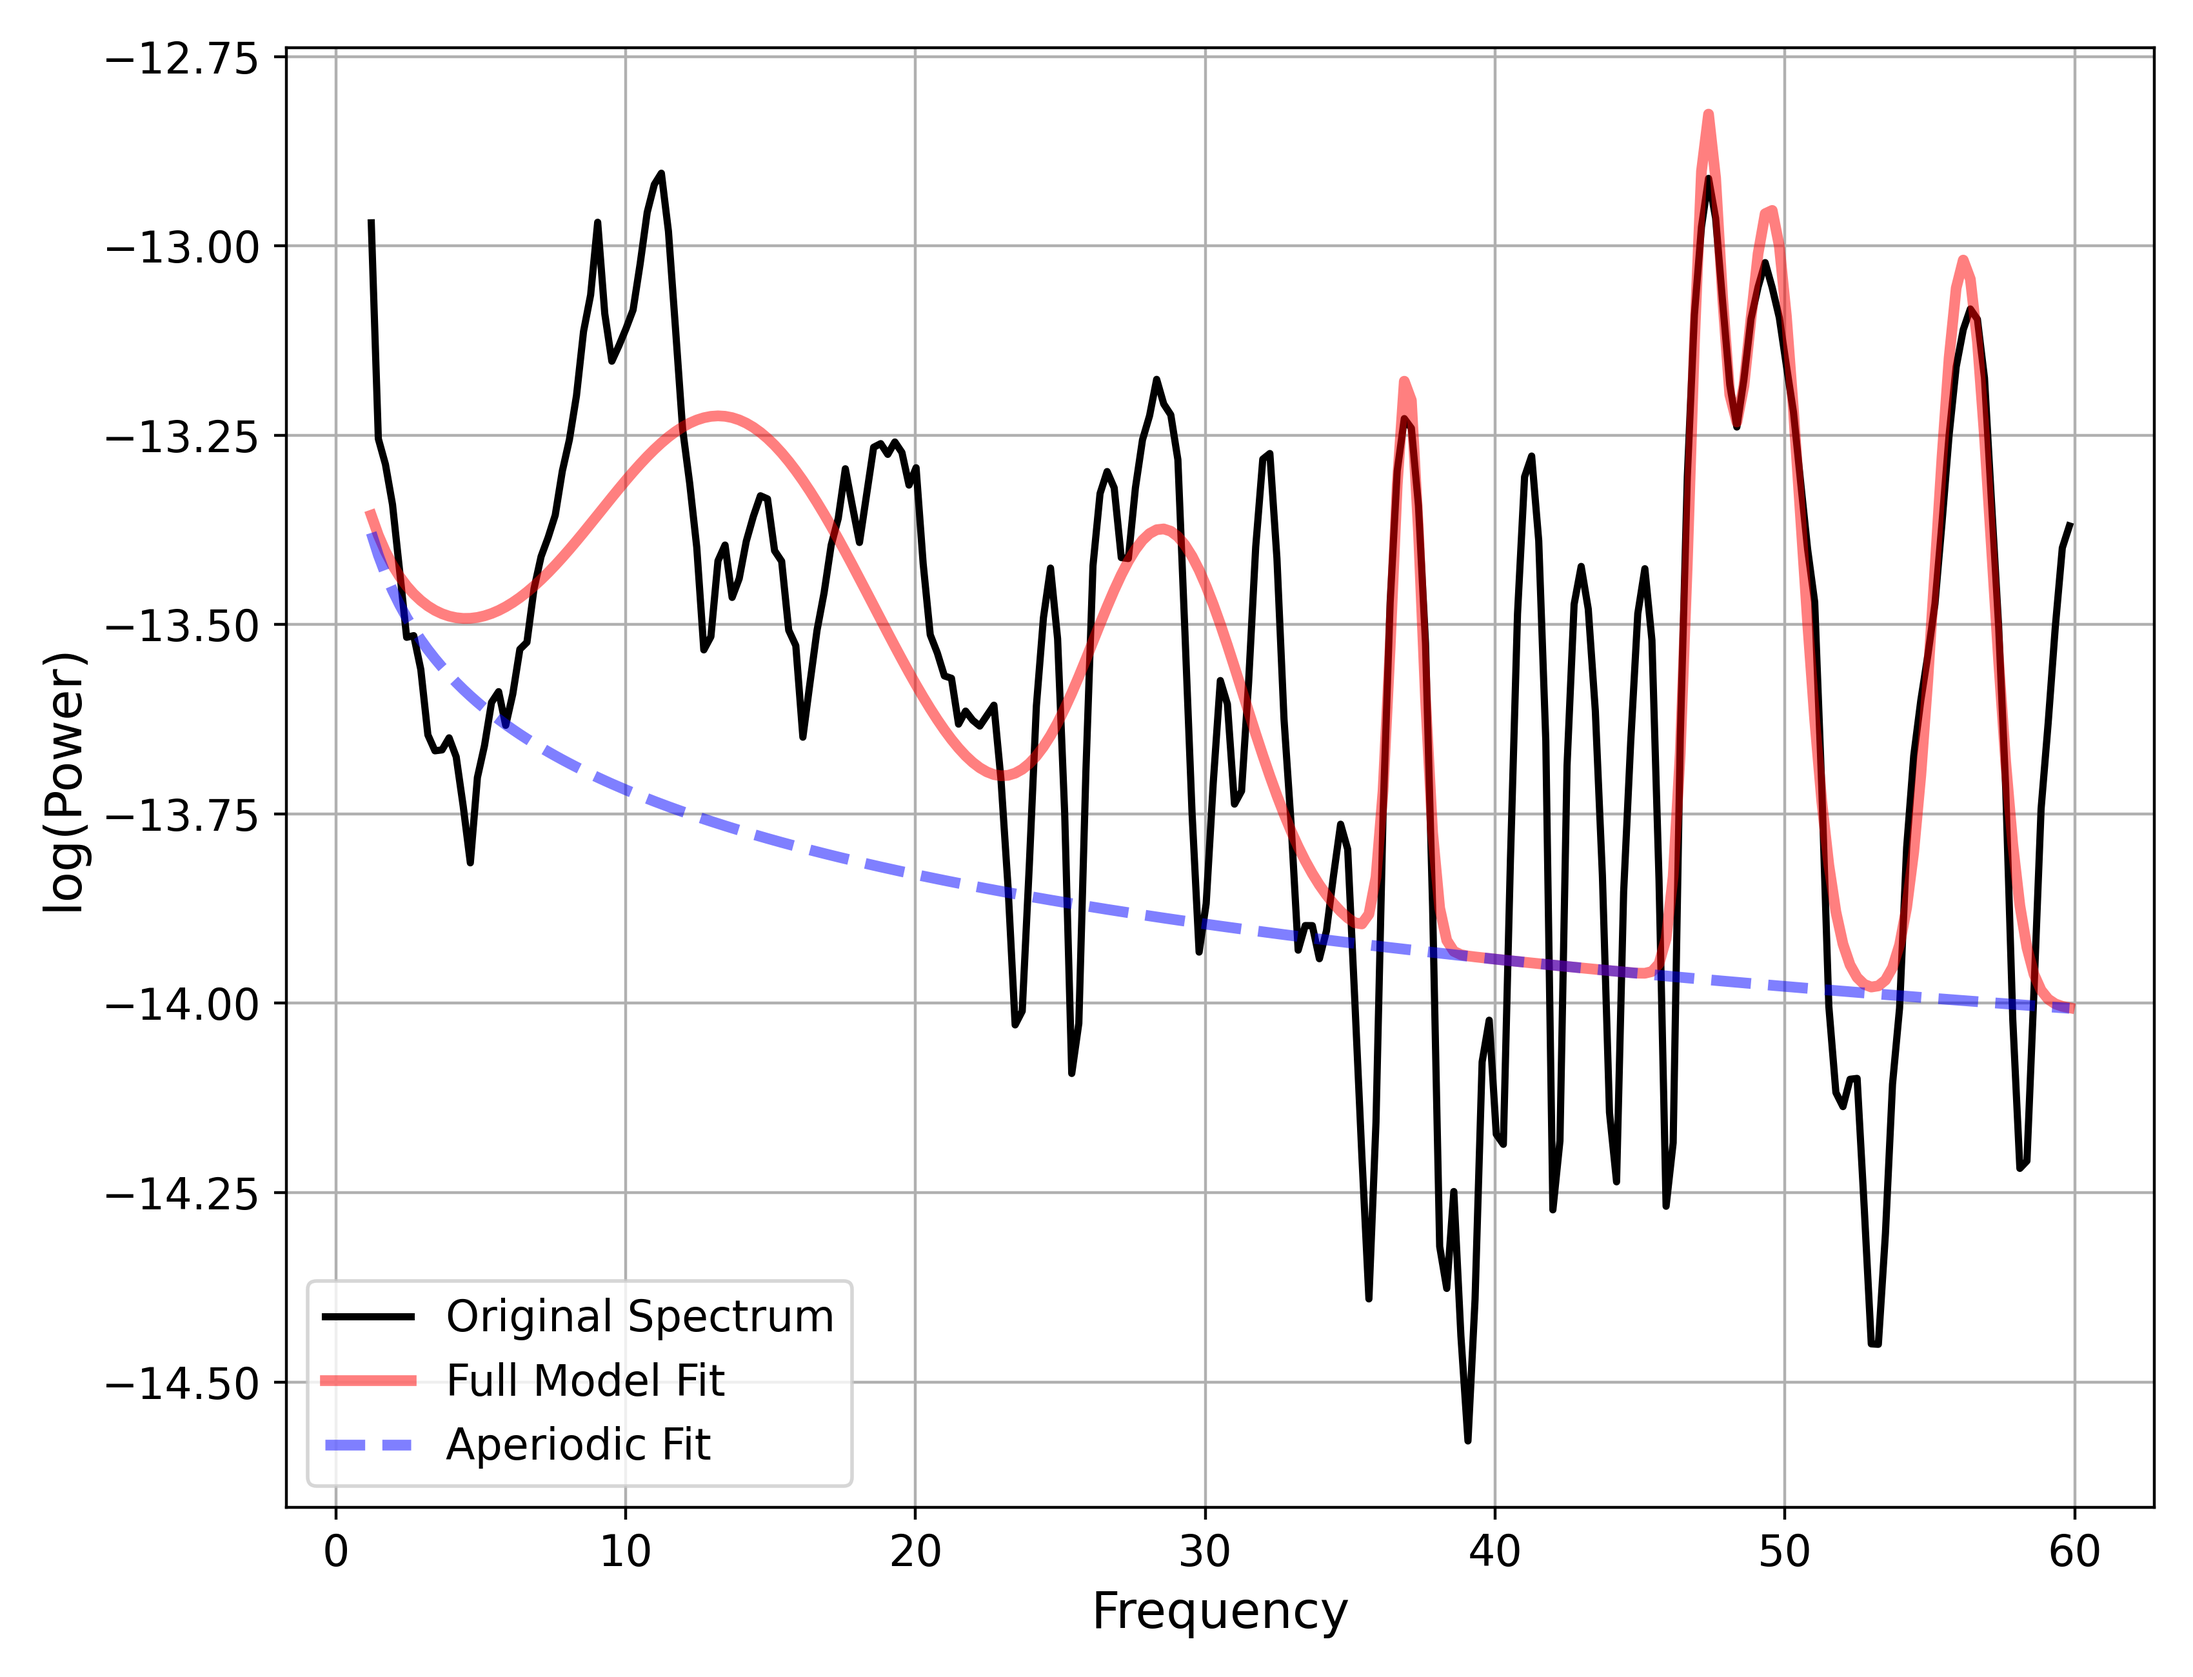
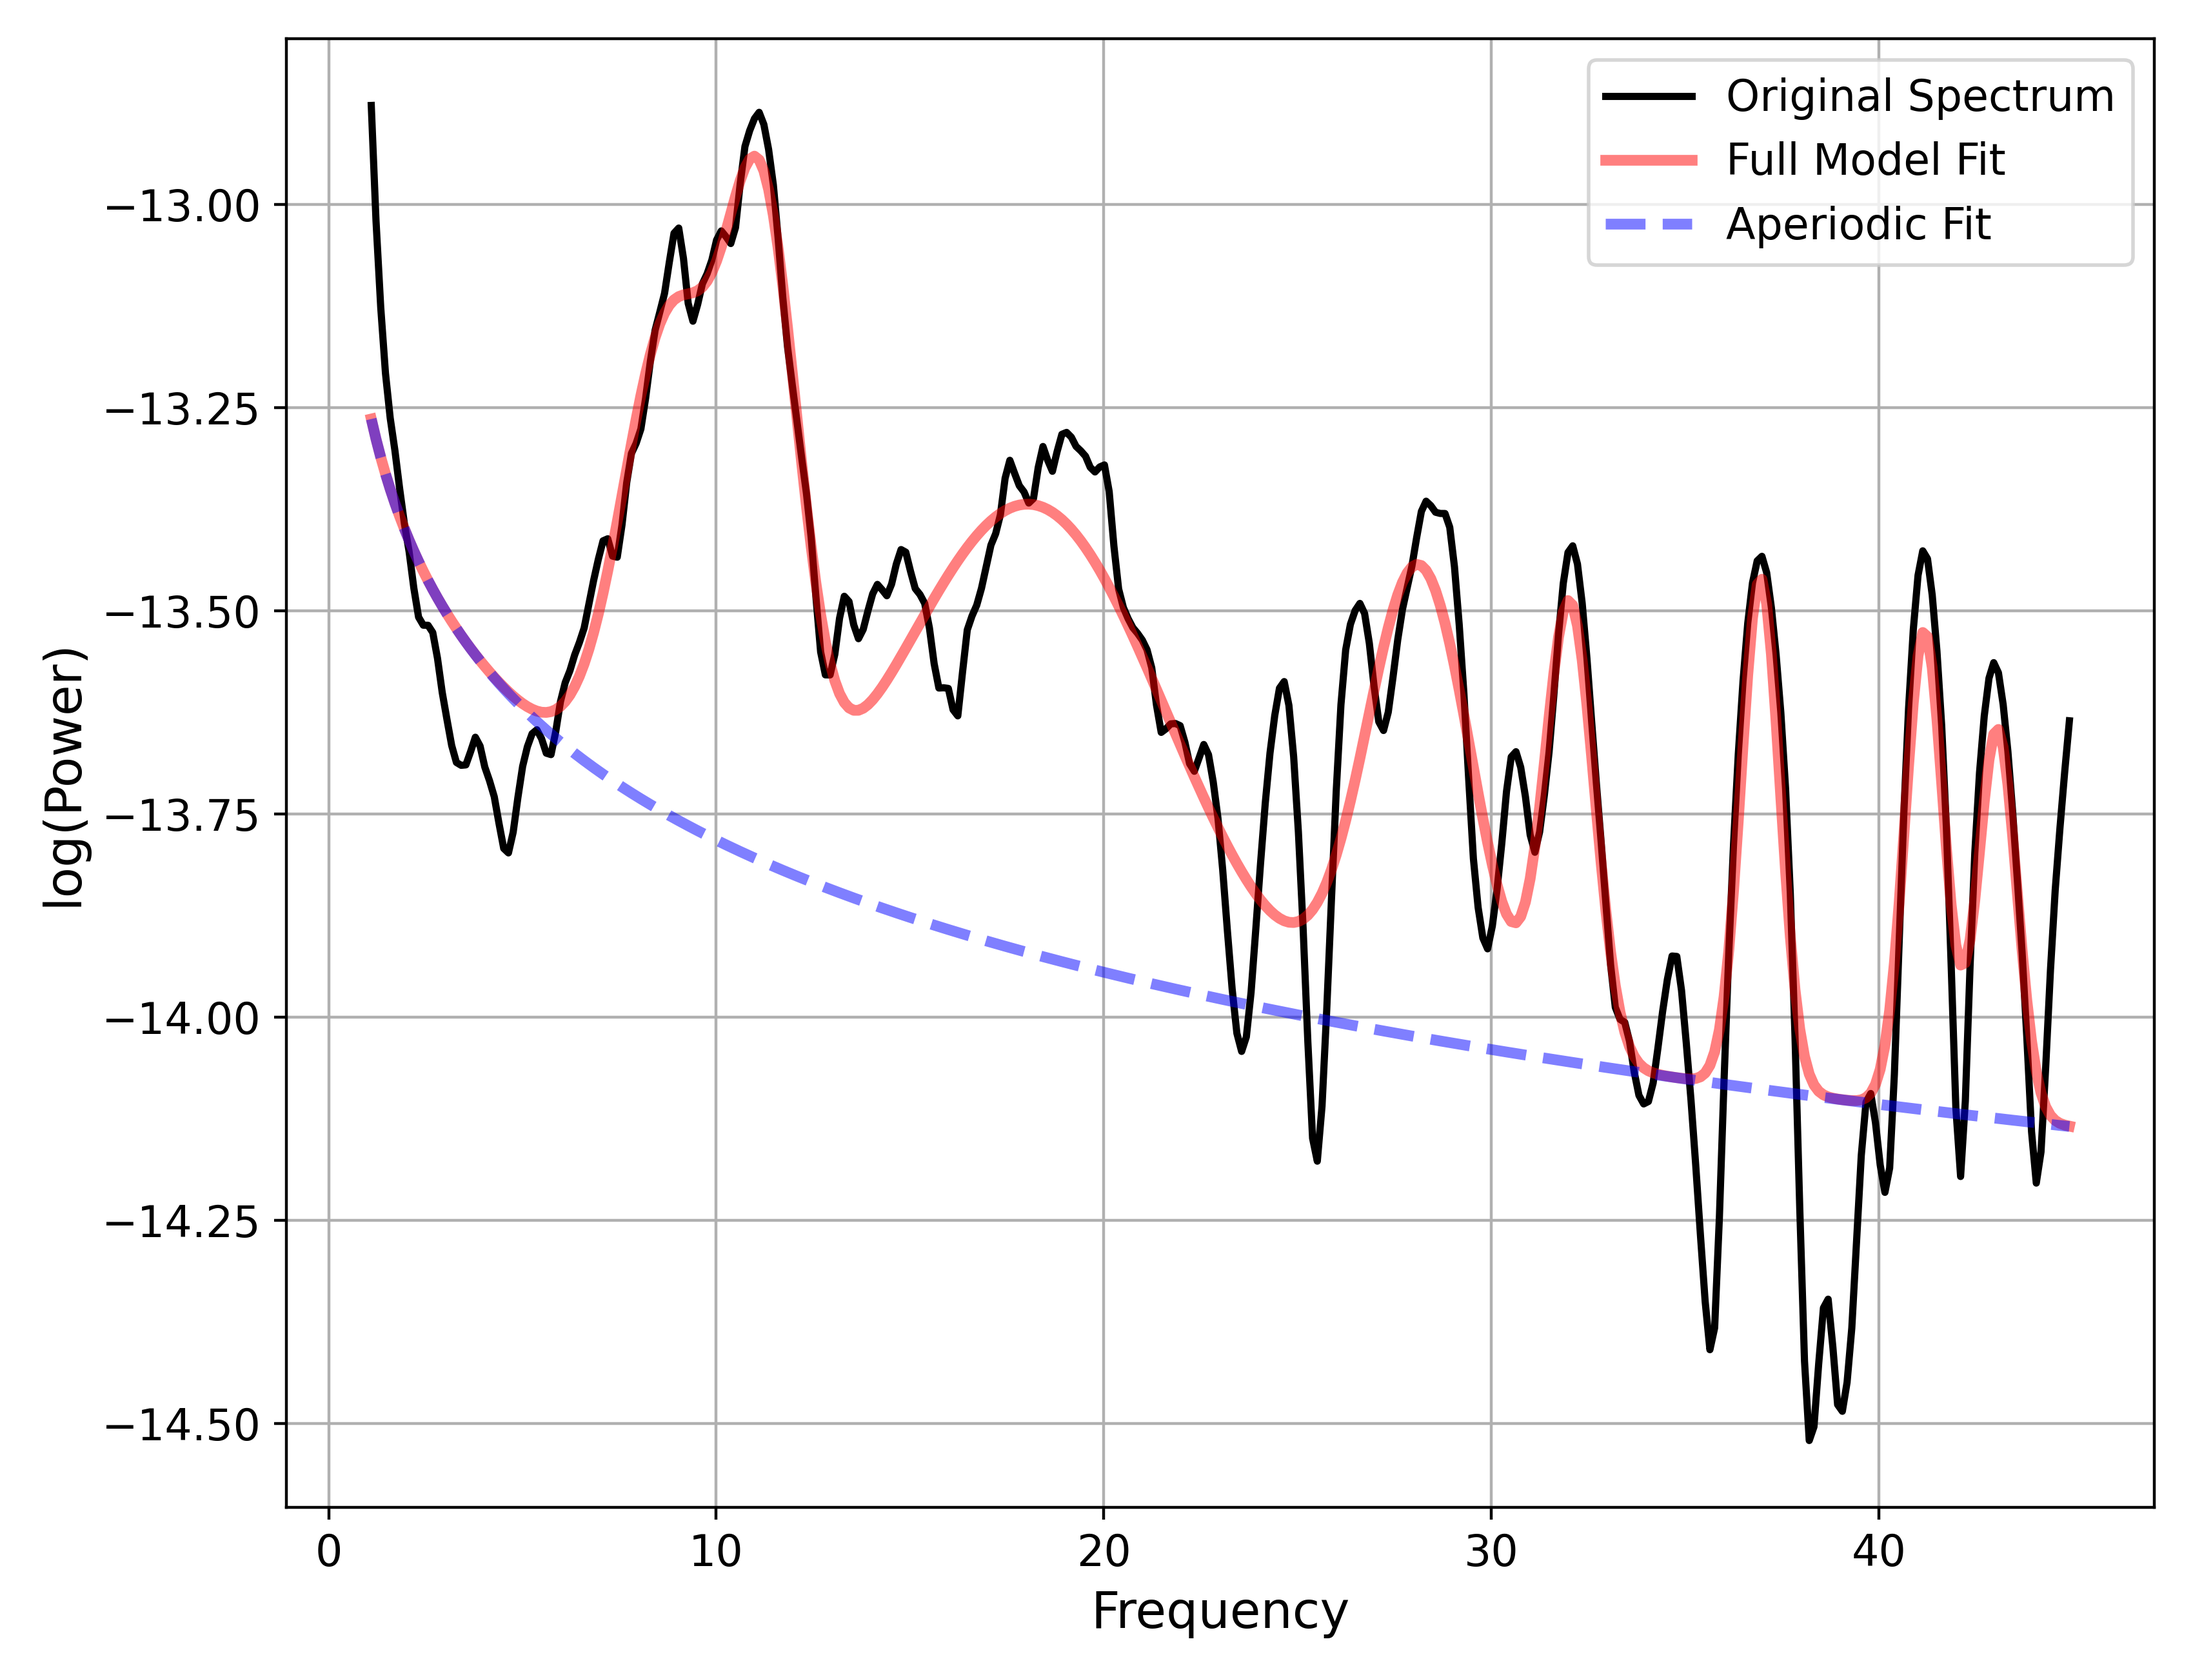
updated peak estimate with fallback to use highest value in range instead of spepcparam if no specparam peaks are found. SNR is not based on psd values instead of specparam peaks

diff --git a/code/01_get_filt_coeffs.py b/code/01_get_filt_coeffs.py
@@ -6,8 +6,10 @@ from json import dump, load
 from pathlib import Path
 
 import mne
+import numpy as np
 from scipy.io import savemat
 from scipy.signal import firwin
+
 from spectrum_analysis import parameterize_spectrum
 
 # change pwd to script directory to ensure relative paths work correctly
@@ -100,43 +102,47 @@ raw_c3_hjorth = mne.io.RawArray(c3_hjorth, info).filter(1, 60, fir_design="firwi
 
 raw_c3_hjorth.resample(pre_rs.info["sfreq"] / dec)
 
-spectrum = raw_c3_hjorth.compute_psd(fmin=1, fmax=60)
-
-# Julianas mod start
-# sfreq = raw_c3_hjorth.info["sfreq"]
-# n_fft = int(4 * sfreq)  # 4 s windows
-# n_overlap = n_fft // 2  # 50% overlap
-
-# spectrum = raw_c3_hjorth.compute_psd(
-#     method="welch",
-#     fmin=1,
-#     fmax=60,
-#     n_fft=n_fft,
-#     n_overlap=n_overlap,
-#     n_per_seg=n_fft,
-# )
-# Julianas mod end
+n_per_seg = int(4 * raw_c3_hjorth.info["sfreq"])  # 4 s windows
+n_fft = 4096
+spectrum = raw_c3_hjorth.compute_psd(
+    fmin=1, fmax=60, n_fft=n_fft, n_overlap=n_per_seg // 2, n_per_seg=n_per_seg
+)
 
 freqs = spectrum.freqs
 psd = spectrum.get_data()
+print(f"PSD shape: {psd.shape}")
 
 periodic_params, aperiodic_params = parameterize_spectrum(
-    [freqs, psd[0, :]], save_fig=repo_root / "figures" / f"{sub_id}_psd.png", fmax=120
+    [freqs, psd[0, :]],
+    save_fig=repo_root / "figures" / f"{sub_id}_psd.png",
+    freq_range=[1, 60],
 )
 
+# get snr peak
+lower_alpha, upper_alpha = 8, 13
+peak_snr = max(psd[0, (freqs >= lower_alpha) & (freqs <= upper_alpha)])
+peak_idx = np.where(psd[0, :] == peak_snr)[0][0]
+peak_power_log = np.log10(peak_snr)
+aperiodic_background_log = aperiodic_params[0] - aperiodic_params[1] * np.log10(
+    freqs[peak_idx]
+)
+peak_snr = 10 * (peak_power_log - aperiodic_background_log)
+print("\n"+100 * "-")
+print(f"Peak SNR: {peak_snr:.2f} dB at {freqs[peak_idx]:.2f} Hz")
+
 # compute peak bands with +/-1 fixed bandwidth
-band_peaks = [param for param in periodic_params if param[0] < 12 and param[0] > 8]
-peak = sorted(band_peaks, key=lambda x: x[1], reverse=True)[
-    0
-]  # get the peak with the highest power
-peak_f = peak[0]
+band_peaks = [
+    param
+    for param in periodic_params
+    if param[0] < upper_alpha and param[0] > lower_alpha
+]
+if len(band_peaks) > 0:
+    peak = max(band_peaks, key=lambda x: x[1])  # get the peak with the highest power
+    peak_f = peak[0]
+else:
+    print("No peaks found in the alpha band. Using the peak SNR frequency instead.")
+    peak_f = freqs[peak_idx]
 lower, upper = peak_f - 1, peak_f + 1
-
-# get snr
-peak_snr = 10 * peak[1]
-
-print(f"\nPeak frequency: {peak_f} Hz, SNR: {peak_snr:.2f} dB\n")
-
 
 # save snr
 with open(data_save / "sub_snr.csv", "a") as f:
@@ -156,16 +162,16 @@ numtaps = (
 print(
     f"Designing FIR filter with fs={fs}, numtaps={numtaps}, lower={lower}, upper={upper}"
 )
-
+print(100 * "-"+"\n")
 coefficients = firwin(numtaps, [lower, upper], fs=fs, pass_zero="bandpass")
 
 # save coefficients to .mat file
 savemat(str(coeffs_path), {"coefficients": coefficients})
 
-# run git push to sync with remote repository
-subprocess.run(["git", "add", "."], cwd=str(repo_root))
-subprocess.run(
-    ["git", "commit", "-m", f"Add FIR filter coefficients for {sub_id}"],
-    cwd=str(repo_root),
-)
-subprocess.run(["git", "push"], cwd=str(repo_root))
+# # run git push to sync with remote repository
+# subprocess.run(["git", "add", "."], cwd=str(repo_root))
+# subprocess.run(
+#     ["git", "commit", "-m", f"Add FIR filter coefficients for {sub_id}"],
+#     cwd=str(repo_root),
+# )
+# subprocess.run(["git", "push"], cwd=str(repo_root))

diff --git a/code/spectrum_analysis.py b/code/spectrum_analysis.py
@@ -1,10 +1,11 @@
-from specparam import SpectralModel, SpectralGroupModel
-from mne.io import Raw, RawArray
-from mne import Epochs, EpochsArray
-import numpy as np
 import matplotlib.pyplot as plt
+import numpy as np
+from mne import Epochs, EpochsArray
+from mne.io import Raw, RawArray
+from specparam import SpectralGroupModel, SpectralModel
 
-def parameterize_spectrum(data, fmin=1, fmax=120, max_peaks=6, peak_width_limits=[1, 10], min_peak_height=0.2, ap_mode ='fixed', freq_range=[1, 120], save_fig=None, **kwargs) -> tuple[list, list]:
+
+def parameterize_spectrum(data, fmin=1, fmax=120, max_peaks=8, peak_width_limits=[1, 10], min_peak_height=0.2, ap_mode ='fixed', freq_range=[1, 120], save_fig=None, **kwargs) -> tuple[list, list]:
     """Parameterize the spectrum of a MEG dataset using SpecParam.
 
     Parameters
@@ -46,7 +47,9 @@ def parameterize_spectrum(data, fmin=1, fmax=120, max_peaks=6, peak_width_limits
         freqs = data[0]
         spectrum = data[1]   
 
-    else: raise ValueError("data must be either an mne.io.Raw object or a numpy array representing the spectrum.")
+    else:
+        raise ValueError("data must be either an mne.io.Raw object or a numpy array representing the spectrum.")
+
 
     if spectrum.ndim == 1:
         spec_model = SpectralModel(max_n_peaks=max_peaks, 
